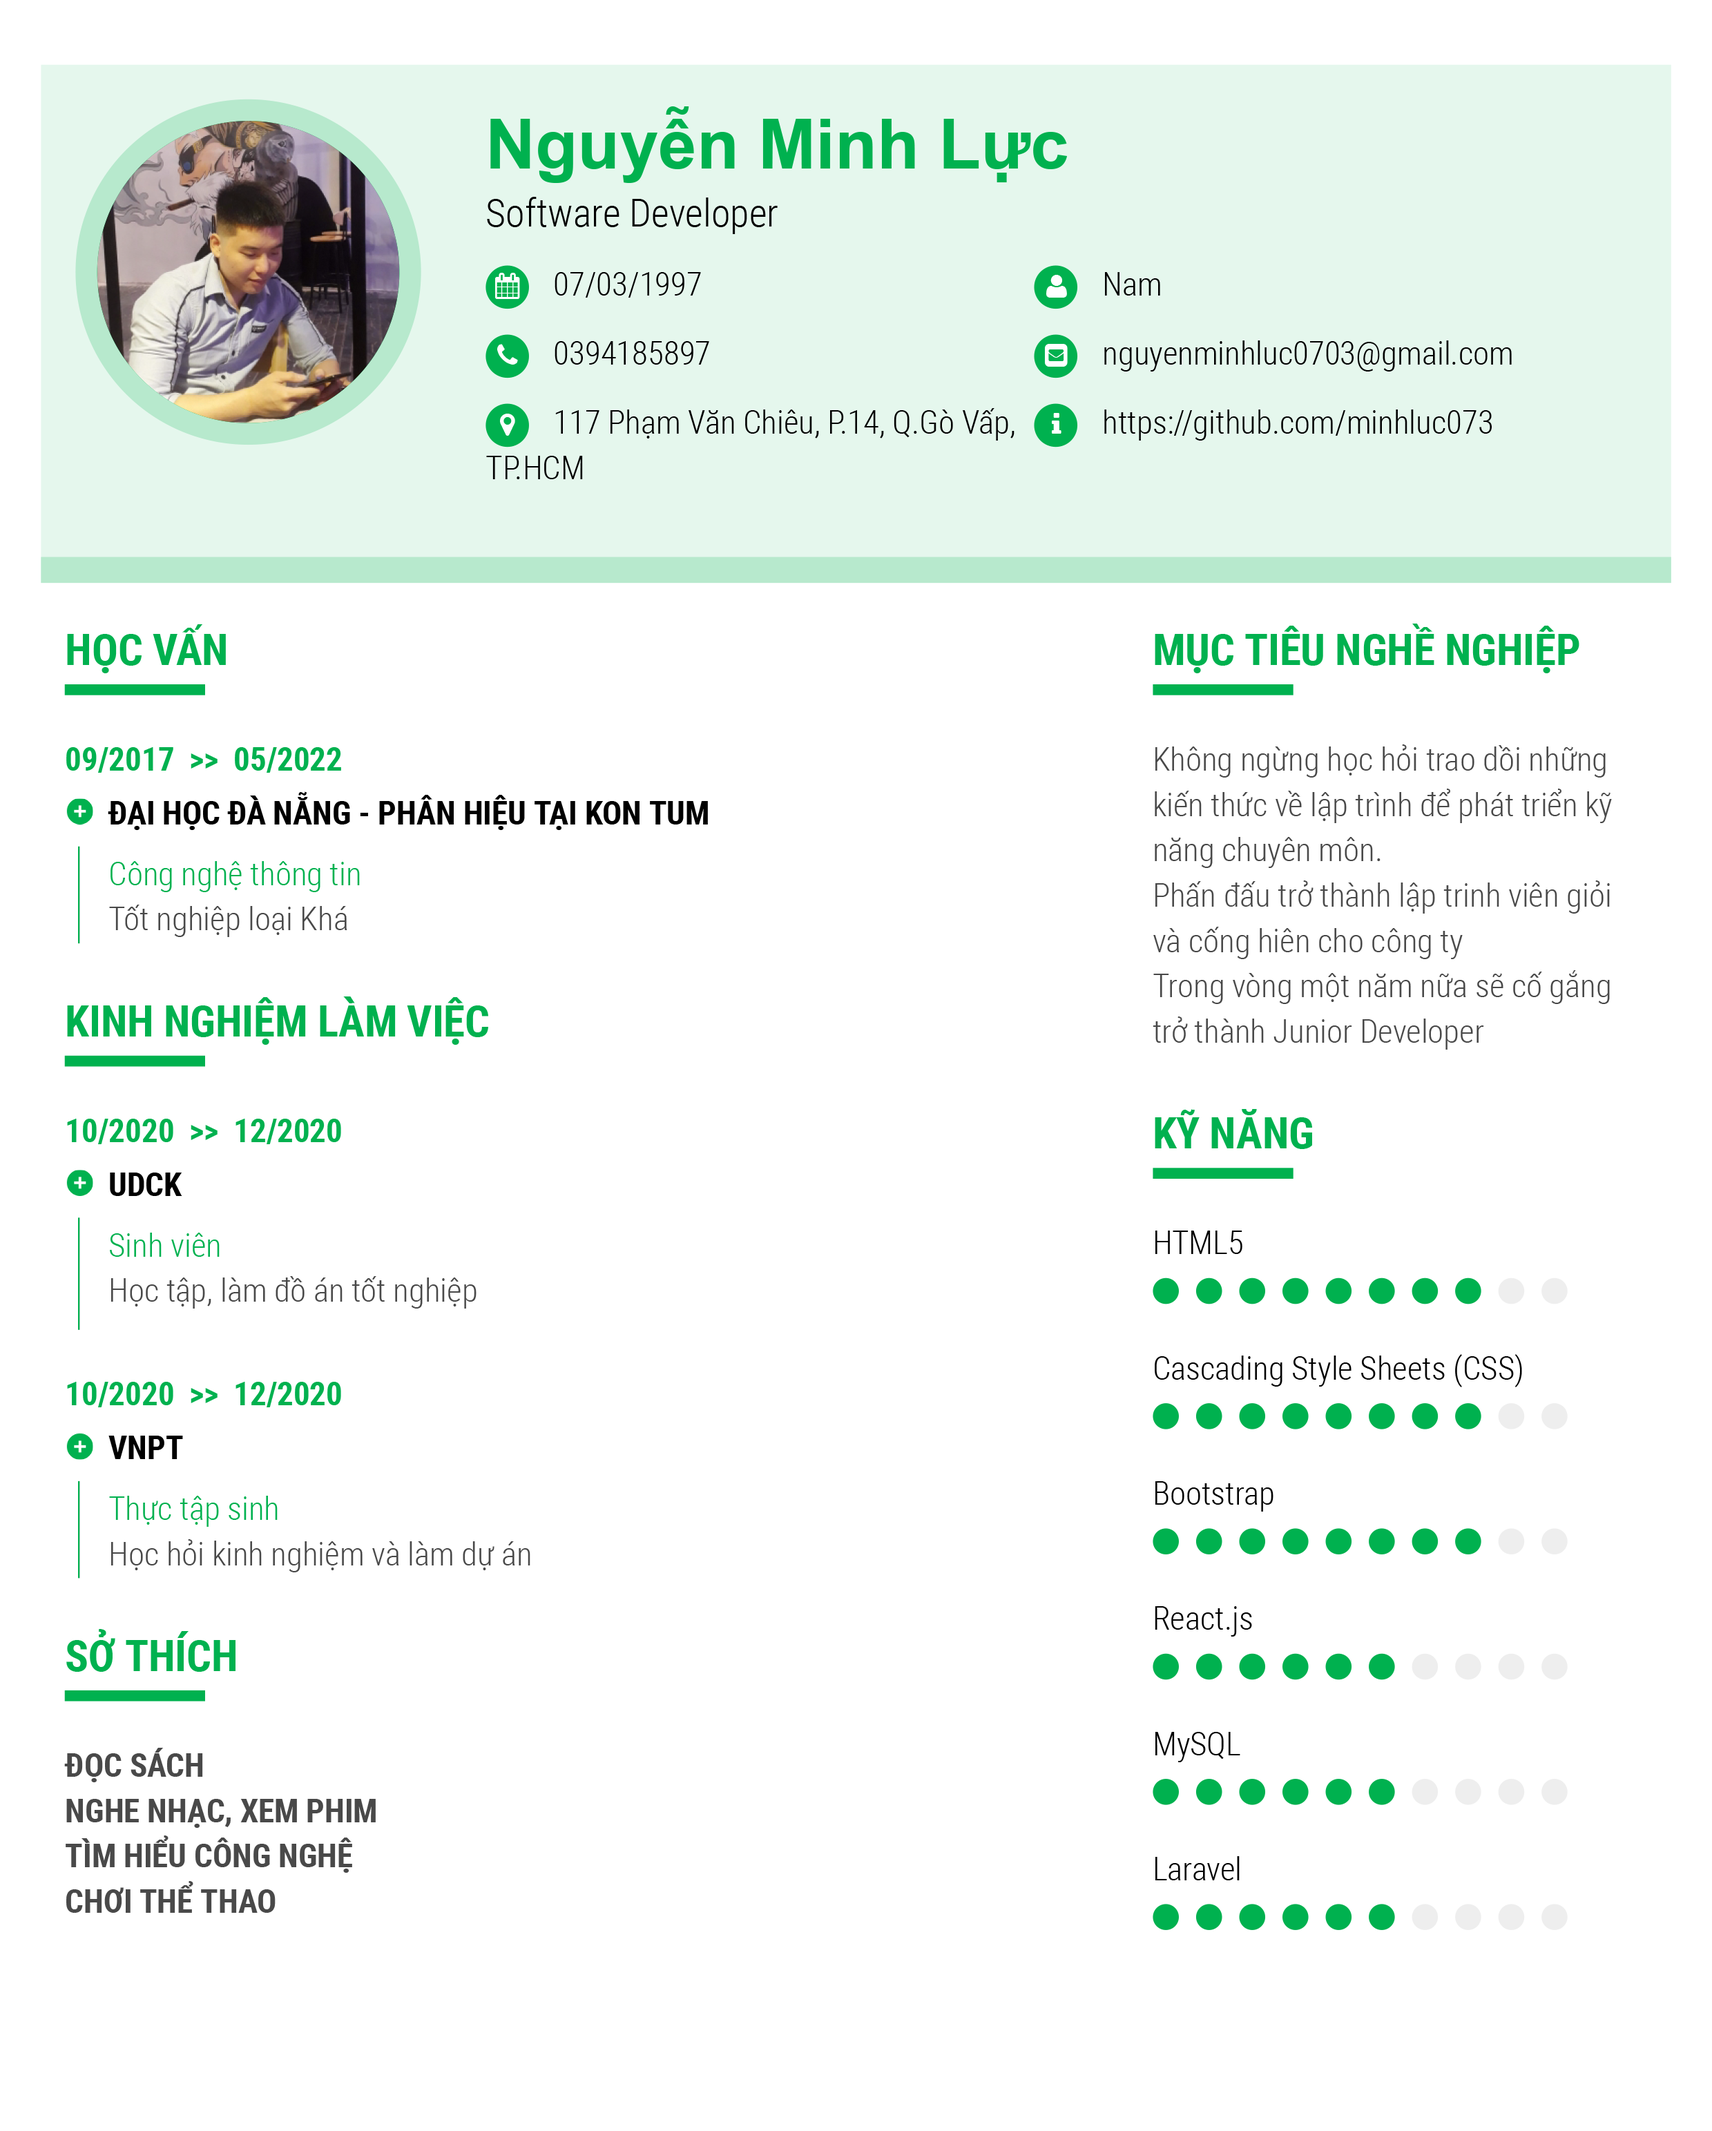
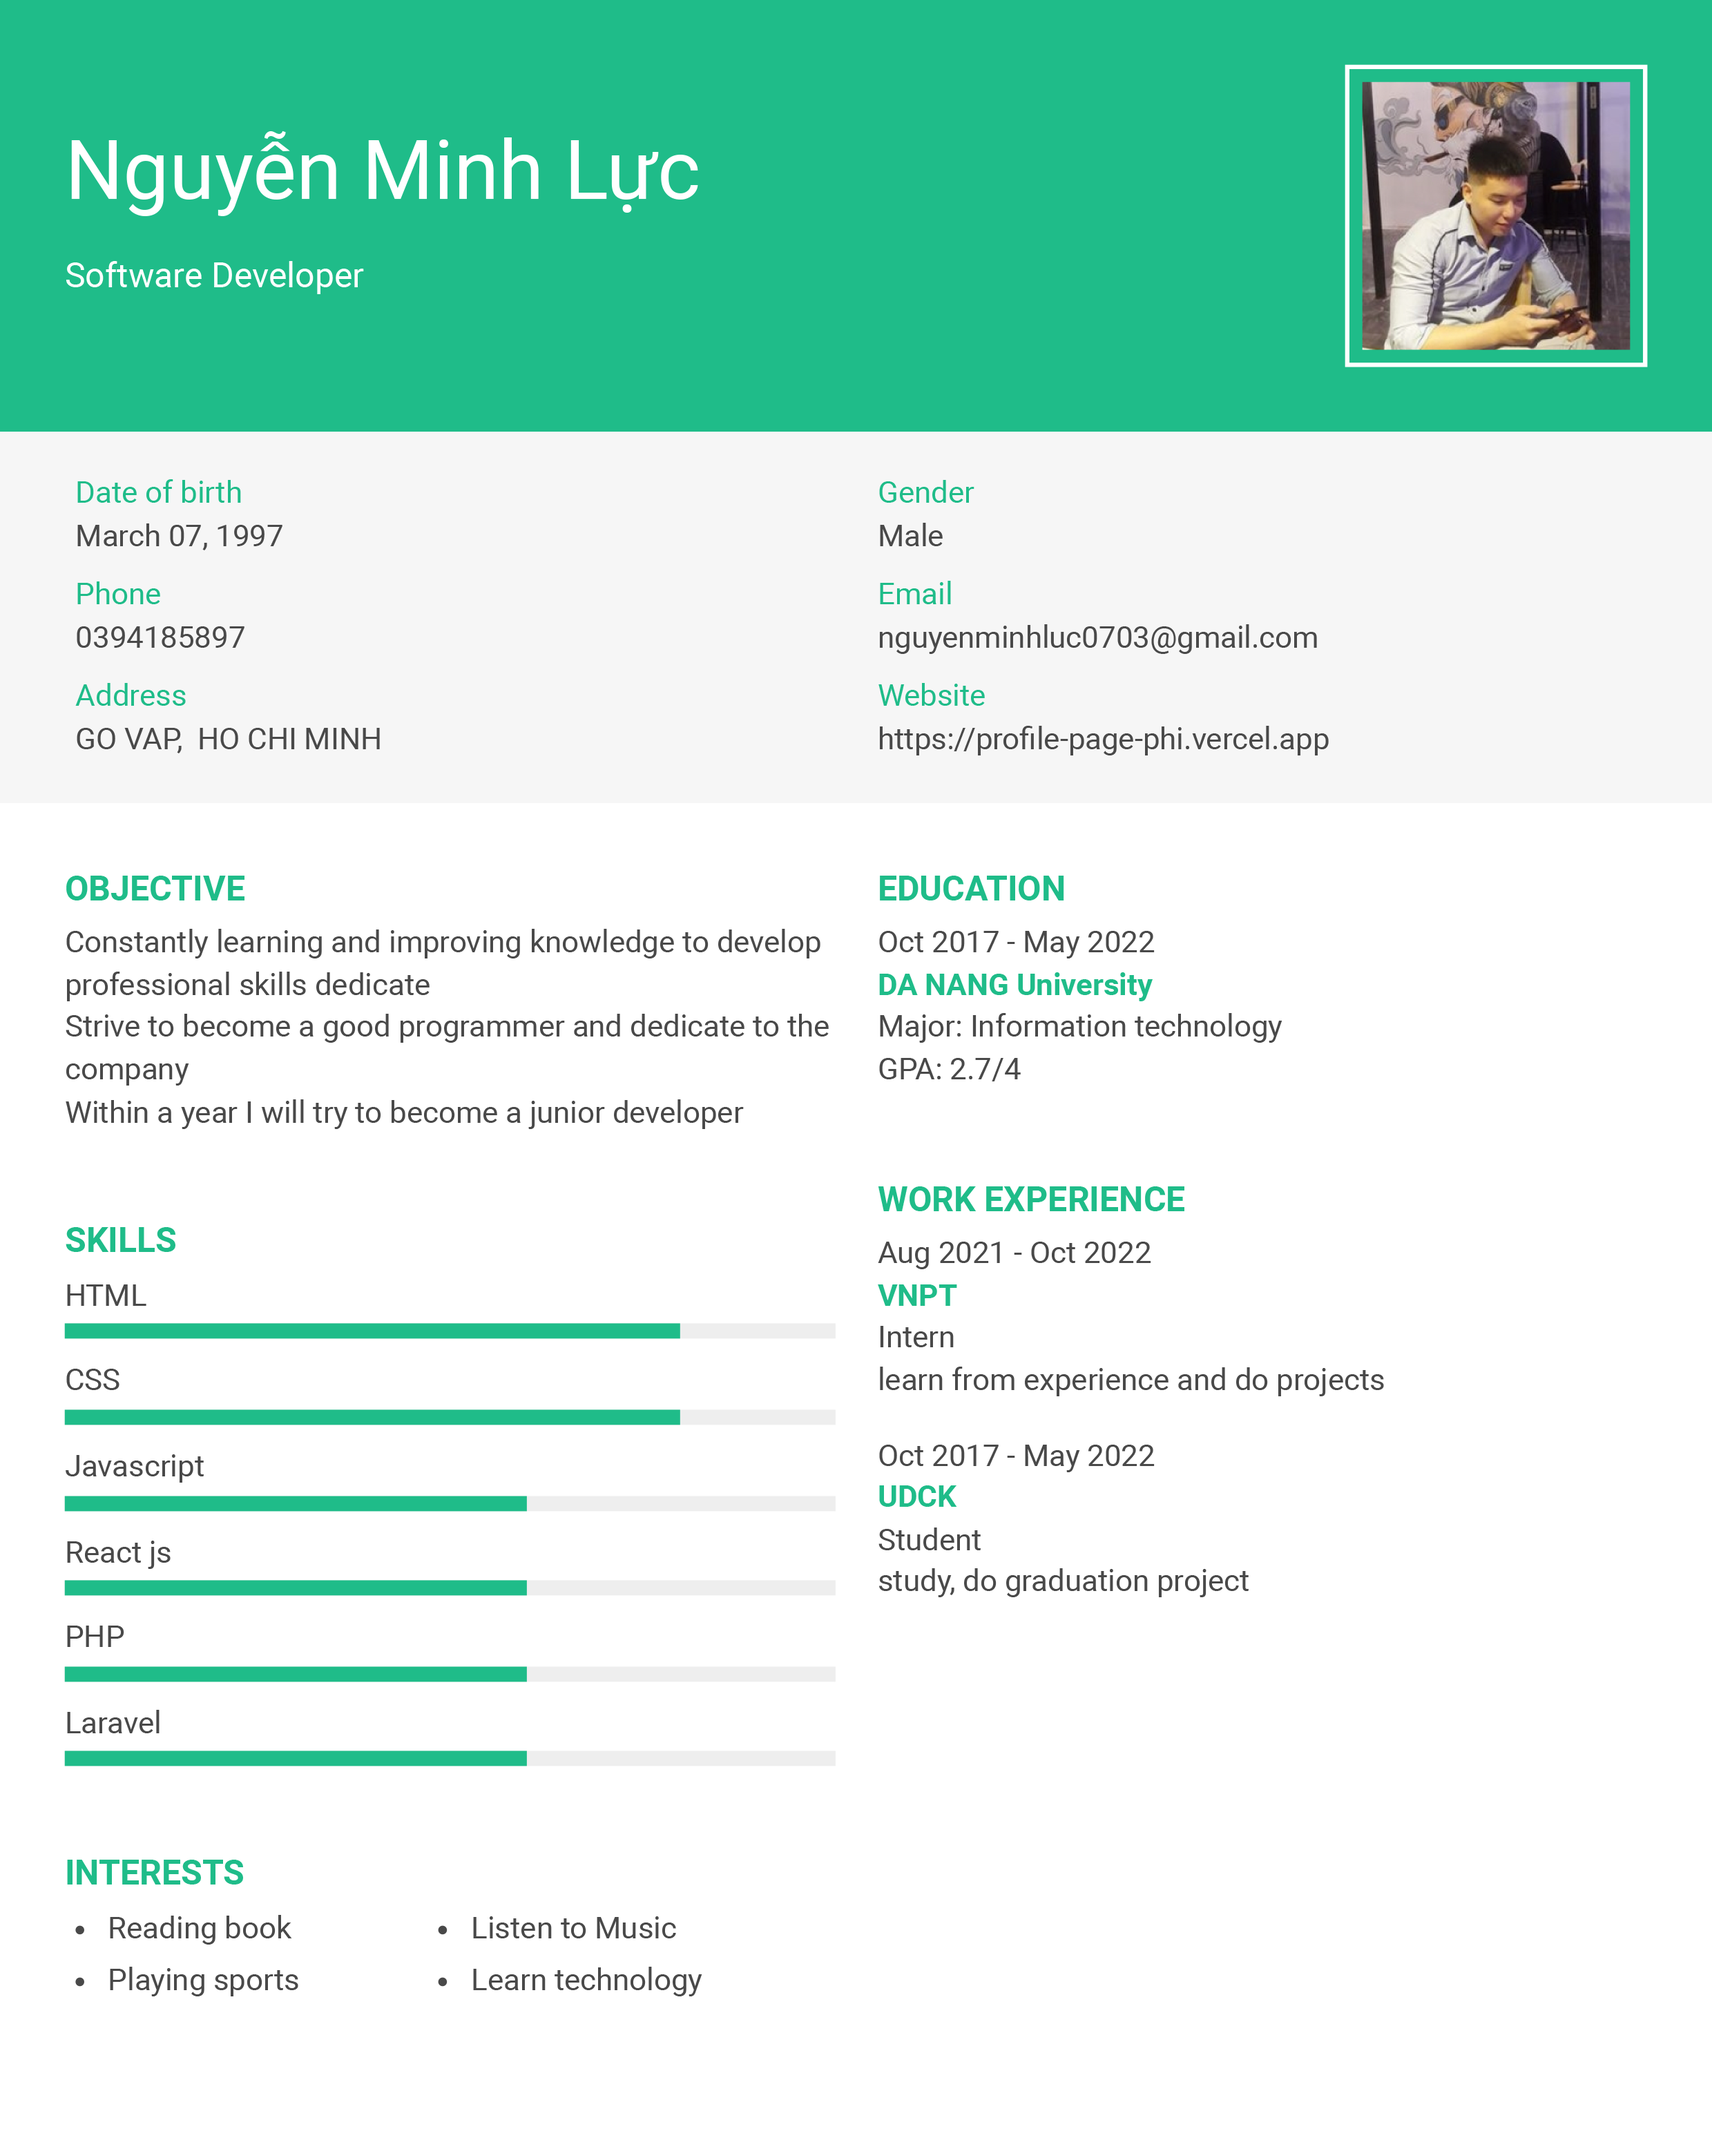
change avat and edu

diff --git a/src/components/Profile.tsx b/src/components/Profile.tsx
@@ -15,6 +15,7 @@ import {
   MDBRow,
 } from "mdb-react-ui-kit";
 import ModalCV from "./ModalCV";
+import './index.css'
 
 import React, { useState } from "react";
 import MyCvPdf from "./MyCvPdf";
@@ -53,7 +54,7 @@ export default function ProfilePage() {
                   <MDBListGroup flush className="rounded-3">
                     <MDBListGroupItem className="d-flex justify-content-between align-items-center p-3">
                       <MDBIcon fas icon="globe fa-lg text-warning" />
-                      <MDBCardText>https://mdbootstrap.comn</MDBCardText>
+                      <MDBCardText><a href="https://profile-page-phi.vercel.app/">profile-page</a></MDBCardText>
                     </MDBListGroupItem>
                     <MDBListGroupItem className="d-flex justify-content-between align-items-center p-3">
                       <MDBIcon
@@ -62,7 +63,8 @@ export default function ProfilePage() {
                         style={{ color: "#333333" }}
                       />
                       <MDBCardText>
-                        <a href="https://github.com/minhluc073">Github</a>
+                        <a 
+                         href="https://github.com/minhluc073">Github</a>
                       </MDBCardText>
                     </MDBListGroupItem>
                     <MDBListGroupItem className="d-flex justify-content-between align-items-center p-3">
@@ -156,7 +158,7 @@ export default function ProfilePage() {
                     </MDBCol>
                     <MDBCol sm="9">
                       <MDBCardText className="text-muted">
-                        Dai Hoc Da Nang
+                      Da Nang University
                       </MDBCardText>
                     </MDBCol>
                   </MDBRow>
@@ -164,14 +166,90 @@ export default function ProfilePage() {
               </MDBCard>
 
               <MDBRow>
-                <MDBCol md="6">
+                <MDBCol md="12">
                   <MDBCard className="mb-4 mb-md-0">
                     <MDBCardBody>
                       <MDBCardText className="mb-4">
-                        <span className="text-primary font-italic me-1">
-                          assigment
-                        </span>{" "}
-                        Project Status
+                        SKILL
+                      </MDBCardText>
+                      <MDBCardText
+                        className="mb-1"
+                        style={{ fontSize: ".77rem" }}
+                      >
+                        HTML, CSS
+                      </MDBCardText>
+                      <MDBProgress className="rounded">
+                        <MDBProgressBar
+                          width={70}
+                          valuemin={0}
+                          valuemax={100}
+                        />
+                      </MDBProgress>
+
+                      <MDBCardText
+                        className="mt-4 mb-1"
+                        style={{ fontSize: ".77rem" }}
+                      >
+                        Javascript
+                      </MDBCardText>
+                      <MDBProgress className="rounded">
+                        <MDBProgressBar
+                          width={60}
+                          valuemin={0}
+                          valuemax={100}
+                        />
+                      </MDBProgress>
+
+                      <MDBCardText
+                        className="mt-4 mb-1"
+                        style={{ fontSize: ".77rem" }}
+                      >
+                        React js
+                      </MDBCardText>
+                      <MDBProgress className="rounded">
+                        <MDBProgressBar
+                          width={60}
+                          valuemin={0}
+                          valuemax={100}
+                        />
+                      </MDBProgress>
+
+                      <MDBCardText
+                        className="mt-4 mb-1"
+                        style={{ fontSize: ".77rem" }}
+                      >
+                        PHP
+                      </MDBCardText>
+                      <MDBProgress className="rounded">
+                        <MDBProgressBar
+                          width={60}
+                          valuemin={0}
+                          valuemax={100}
+                        />
+                      </MDBProgress>
+
+                      <MDBCardText
+                        className="mt-4 mb-1"
+                        style={{ fontSize: ".77rem" }}
+                      >
+                        Laravel
+                      </MDBCardText>
+                      <MDBProgress className="rounded">
+                        <MDBProgressBar
+                          width={60}
+                          valuemin={0}
+                          valuemax={100}
+                        />
+                      </MDBProgress>
+                    </MDBCardBody>
+                  </MDBCard>
+                </MDBCol>
+
+                {/* <MDBCol md="6">
+                  <MDBCard className="mb-4 mb-md-0">
+                    <MDBCardBody>
+                      <MDBCardText className="mb-4">
+                        PROJECT
                       </MDBCardText>
                       <MDBCardText
                         className="mb-1"
@@ -244,89 +322,7 @@ export default function ProfilePage() {
                       </MDBProgress>
                     </MDBCardBody>
                   </MDBCard>
-                </MDBCol>
-
-                <MDBCol md="6">
-                  <MDBCard className="mb-4 mb-md-0">
-                    <MDBCardBody>
-                      <MDBCardText className="mb-4">
-                        <span className="text-primary font-italic me-1">
-                          assigment
-                        </span>{" "}
-                        Project Status
-                      </MDBCardText>
-                      <MDBCardText
-                        className="mb-1"
-                        style={{ fontSize: ".77rem" }}
-                      >
-                        Web Design
-                      </MDBCardText>
-                      <MDBProgress className="rounded">
-                        <MDBProgressBar
-                          width={80}
-                          valuemin={0}
-                          valuemax={100}
-                        />
-                      </MDBProgress>
-
-                      <MDBCardText
-                        className="mt-4 mb-1"
-                        style={{ fontSize: ".77rem" }}
-                      >
-                        Website Markup
-                      </MDBCardText>
-                      <MDBProgress className="rounded">
-                        <MDBProgressBar
-                          width={72}
-                          valuemin={0}
-                          valuemax={100}
-                        />
-                      </MDBProgress>
-
-                      <MDBCardText
-                        className="mt-4 mb-1"
-                        style={{ fontSize: ".77rem" }}
-                      >
-                        One Page
-                      </MDBCardText>
-                      <MDBProgress className="rounded">
-                        <MDBProgressBar
-                          width={89}
-                          valuemin={0}
-                          valuemax={100}
-                        />
-                      </MDBProgress>
-
-                      <MDBCardText
-                        className="mt-4 mb-1"
-                        style={{ fontSize: ".77rem" }}
-                      >
-                        Mobile Template
-                      </MDBCardText>
-                      <MDBProgress className="rounded">
-                        <MDBProgressBar
-                          width={55}
-                          valuemin={0}
-                          valuemax={100}
-                        />
-                      </MDBProgress>
-
-                      <MDBCardText
-                        className="mt-4 mb-1"
-                        style={{ fontSize: ".77rem" }}
-                      >
-                        Backend API
-                      </MDBCardText>
-                      <MDBProgress className="rounded">
-                        <MDBProgressBar
-                          width={66}
-                          valuemin={0}
-                          valuemax={100}
-                        />
-                      </MDBProgress>
-                    </MDBCardBody>
-                  </MDBCard>
-                </MDBCol>
+                </MDBCol> */}
               </MDBRow>
             </MDBCol>
           </MDBRow>
@@ -335,7 +331,6 @@ export default function ProfilePage() {
       <ModalCV
         isOpen={isOpen}
         toggleShow={() => setIsOpen(!isOpen)}
-        title="My CV"
         children={() => {
           return <MyCvPdf/>;
         }}
@@ -343,3 +338,4 @@ export default function ProfilePage() {
     </>
   );
 }
+

diff --git a/src/components/ModalCV.tsx b/src/components/ModalCV.tsx
@@ -22,7 +22,6 @@ export default function ModalCV({
   isOpen = false,
   toggleShow = () => {},
   children = () => {},
-  title = "Modal title",
   btnClose = "close",
 }: ModalCVProps) {
   return (
@@ -31,7 +30,7 @@ export default function ModalCV({
         <MDBModalDialog size='lg' centered>
           <MDBModalContent>
             <MDBModalHeader>
-              <MDBModalTitle>{title}</MDBModalTitle>
+              {/* <MDBModalTitle>{title}</MDBModalTitle> */}
               <MDBBtn
                 className="btn-close"
                 color="none"

diff --git a/src/App.css b/src/App.css
@@ -1,7 +1,9 @@
 .App {
   text-align: center;
 }
-
+a{
+  text-decoration: none;
+}
 .App-logo {
   height: 40vmin;
   pointer-events: none;

diff --git a/src/components/index.css b/src/components/index.css
@@ -1,0 +1,3 @@
+a{
+    text-decoration: none;
+}
